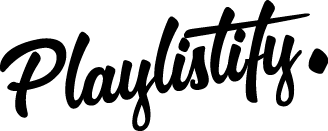
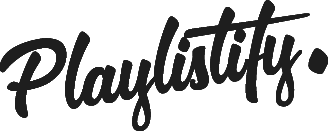
Style och Bootstrap

Changed region(s): [[0.0, 0.0, 1.0, 1.0]]

diff --git a/redirectIndex.html b/redirectIndex.html
@@ -6,11 +6,12 @@
     <meta http-equiv="X-UA-Compatible" content="IE=edge">
     <title>Playlistify</title>
     <meta name="viewport" content="width=device-width, initial-scale=1">
+    <link href="https://fonts.googleapis.com/css?family=Dosis|Lobster|Pacifico" rel="stylesheet">
 </head>
 
 <body class="">
     <header>
-        <img class="rounded mx-auto d-block" src="LoggaWeb.png" alt="logo">
+        <h1 class="logo">•Playlistify•</h1>
         <br>
     </header>
 
@@ -26,19 +27,37 @@
         <br>
     </nav>
 
-    <main class="wrapper container d-flex flex-col flex-wrap justify-content-center">
+    <main class="wrapper container">
 
-        <section class="statSec bg-warning m-1 p-4 text-center w-100">
-            <form action="">
-                <input type="radio" name="time" class="radio shortTerm" value="short_term">Short-Term
-                <input type="radio" name="time" class="radio mediumTerm" value="medium_term">Medium-Term
-                <input type="radio" name="time" class="radio longTerm" value="long_term">Long-Term
+        <section class="statSec m-1 p-4 text-center w-100">
+
+            <form action="" class=" timePeriodSelect row d-flex flex-wrap flex-row text-center justify-content-center bg-warning">
+
+                <div class="opt1 ml-1 mr-1 col-sm">
+                    Past 4 Weeks:
+                    <br>
+                    <input type="radio" name="time" class="radio shortTerm " value="short_term" id="r1">
+                </div>
+
+                <div class="opt2 ml-1 mr-1 col-sm">
+                    Past 6 Months:
+                    <br>
+                    <input type="radio" name="time" class="radio mediumTerm" value="medium_term" id="r2">
+                </div>
+
+                <div class="opt2 ml-1 mr-1 col-sm">
+                    Past Year:
+                    <br>
+                    <input type="radio" name="time" class="radio longTerm" value="long_term" id="r3">
+                </div>
+
             </form>
-            <div id="statText"></div>
+            <br>
+            <div class="col-sm bg-warning w-100" id="statText"></div>
         </section>
 
-        <section class="createSec bg-danger m-1 p-4 text-center w-100">
-            <div id="createText"></div>
+        <section class="createSec d-flex flex-col flex-wrap justify-content-center bg-danger m-1 p-4 text-center w-100">
+            <div class="d-flex flex-col flex-wrap justify-content-center align-content-center" id="createText"></div>
 
             <button class="createPlaylist btn">Create Playlist</button>
 

diff --git a/main.js b/main.js
@@ -57,15 +57,18 @@ var Playlistify = {
             success: function (result) {
                 // document.getElementById("createText").innerHTML = result.items[0].name;
                 for (let i = 0; i < result.items.length; i++) {
-                    $('#createText').append('<p class = "listItem">' + result.items[i].name +
+                    $('#createText').append('<p class = "listItem m-2 pb-1 text-danger">' + result.items[i].name +
                         "</p><br>");
                     Playlistify.topArtistsId.push(result.items[i].id);
                 }
 
                 $(".listItem").each(function () {
-                    $(this).append('<input type="checkbox" value="' + indexNr + '" class = "checkbox ml-3">');
+                    $(this).append('<br><input type="checkbox" value="' + indexNr + '" class = "checkbox ml-2 " id = "checkboxOneInput">');
                     indexNr++;
                 })
+
+                $(".listItem").addClass("p-3").css("background-color", "#f97575");
+                
                 // console.log(result);
                 // console.log(Playlistify.topArtistsId);
 
@@ -101,10 +104,12 @@ var Playlistify = {
             success: function (result) {
                 // document.getElementById("createText").innerHTML = result.items[0].name;
                 for (let i = 0; i < result.items.length; i++) {
-                    $('#statText').append('<p class = "listItem">' + result.items[i].name +
-                        "</p><br>");
+                    $('#statText').append('<p class = "statListItem m-2">• ' + result.items[i].name +
+                        "</p>");
                     Playlistify.topTracksId.push(result.items[i].id);
                 }
+
+                $(".statListItem").addClass("p-1");
                 console.log(result);
                 console.log(Playlistify.topTracksId);
 

diff --git a/style.css b/style.css
@@ -1,12 +1,69 @@
+body {}
+
 .col-centered {
     float: none;
     margin-right: auto;
     margin-left: auto;
 }
 
-.img-centered{
+.img-centered {
     margin: 0 auto;
 }
-.nav-item :hover{
-font-size: 20px;
+
+.nav-item :hover {
+    font-size: 20px;
+}
+
+.logo {
+    font-family: 'Pacifico', cursive;
+    text-align: center;
+    font-size: 75px;
+    color: #263238;
+    transform: rotate(-5deg);
+    /* text-decoration: underline; */
+}
+
+.createSec {
+    font-family: 'Dosis', sans-serif;
+    font-weight: bolder;
+    font-size: 20px;
+}
+
+.timePeriodSelect{
+    padding: 20px;
+}
+.radio{
+    color: #263238;
+    height: 25px;
+    width: 25px;
+    margin: 0 auto;
+    text-align: center;
+
+}
+.statText{
+    background-color: #ffbb33;
+    padding: 30px;
+}
+.statSec {
+    font-family: 'Dosis', sans-serif;
+    font-weight: bolder;
+    font-size: 20px;
+}
+
+.statListItem {
+    /* background-color: #fdf2de; */
+    color: #263238;
+    vertical-align: middle;
+}
+
+.listItem {
+}
+
+.btn {
+    font-weight: bolder;
+}
+
+.checkbox {
+    height: 25px;
+    width: 25px;
 }
